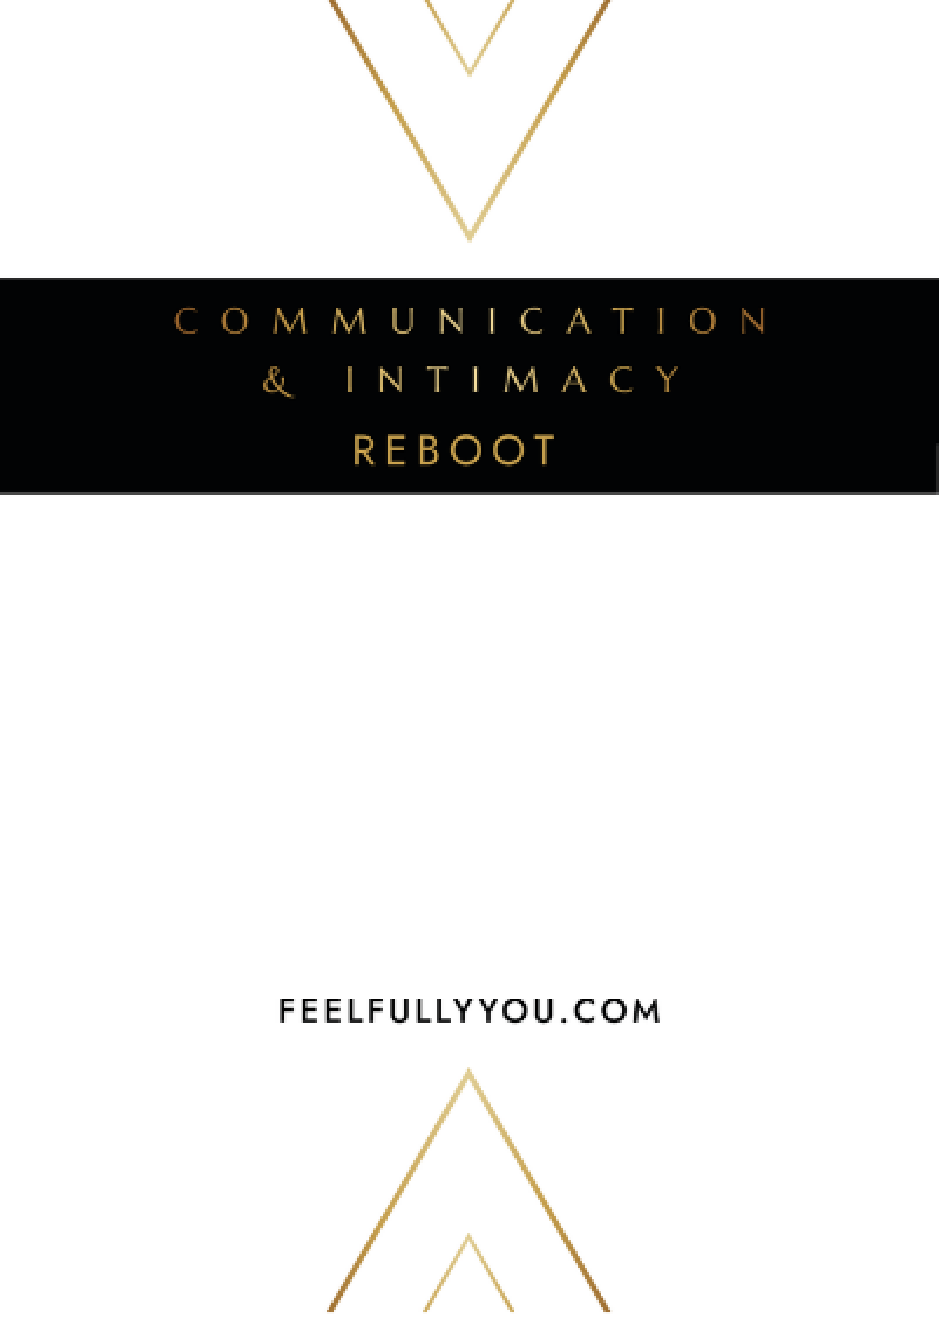
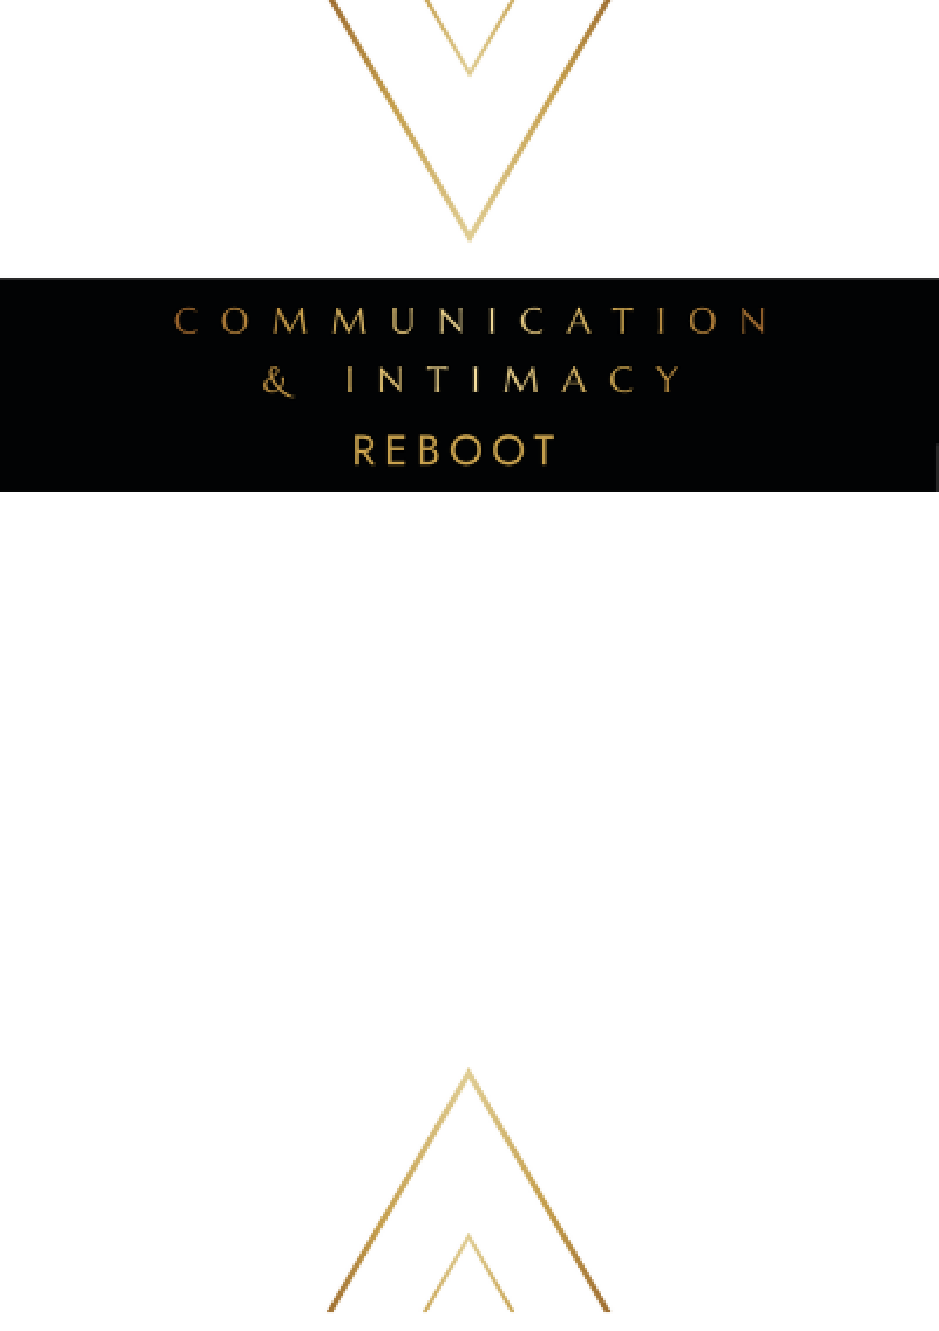
Split two-clause cards into bold statement + plain follow-up, fix overflow
Juliette went card by card: "so how I do it in the normal cards is the
first line here would be bold... then the next sentence (not bold &
under it)." Applied that pattern to every card with a genuine second
clause (a real follow-up question, or a comma-separated clarifying
phrase), corrected the "touch felt wrong" card's wording per her direct
edit. Single-clause cards are no longer bold by default, matching "ONLY
the cards that have 2 questions are in bold."

Also widened the template's blank text zone (card 19's long prompt was
overflowing into the band above and the site name below) and moved
feelfullyyou.com to live text so it always sits correctly regardless of
how long the prompt is, instead of being baked into the image at a fixed
spot.

Changed region(s): [[0.278, 0.7393, 0.7103, 0.7701]]

diff --git a/practice-app/lib/content/communication-reboot-kit.ts b/practice-app/lib/content/communication-reboot-kit.ts
@@ -38,15 +38,23 @@ const MINI_DYAD_VIDEO_URL =
 
 // Spec R11 Appendix, verbatim. Cards 16 and 46 are the couples/solo
 // phrasing of the same closing integration prompt, both included.
-export const REBOOT_KIT_CARDS: string[] = [
+// Some cards are a statement plus a separate follow-up question. Real
+// cards render that as two lines: the statement bold, the question plain
+// underneath, not run together as one sentence — Juliette, 12 Aug 2026:
+// "so how I do it in the normal cards is the first line here would be
+// bold... then the next sentence (not bold & under it)." A plain string
+// is a single-line card; {main, secondary} is the two-line kind.
+export type RebootCard = string | { main: string; secondary: string };
+
+export const REBOOT_KIT_CARDS: RebootCard[] = [
   "Tell me what intimacy feels like to you in your body.",
-  "Tell me about one moment with me that still has you smile. What do you feel in your body recalling this now?",
+  { main: "Tell me about one moment with me that still has you smile.", secondary: "What do you feel in your body recalling this now?" },
   "Tell me what I can do that helps you soften into feeling safe.",
-  "Tell me what scares you about touch, and what excites you.",
+  { main: "Tell me what scares you about touch.", secondary: "And what excites you?" },
   "Tell me the kind of touch that lingers long after it's over.",
-  "Tell me about a time that touch didn't feel right for you, and why.",
+  { main: "Tell me about a time that touch didn't feel right for you.", secondary: "And why?" },
   "Tell me what you secretly wish more of between us.",
-  "Tell me the part of your body that most wants to be celebrated and why.",
+  { main: "Tell me the part of your body that most wants to be celebrated.", secondary: "And why?" },
   "Tell me how your hands ache to explore me.",
   "Tell me something playful you've secretly wanted to try with me, but haven't said out loud yet.",
   "Tell me what you dream our intimacy could look like a year from now.",
@@ -57,7 +65,7 @@ export const REBOOT_KIT_CARDS: string[] = [
   "Tell me a win, insight or learning about doing this experience together.",
   "Tell me what intimacy with yourself looks and feels like.",
   "Tell me what touch means to you when no one else is involved.",
-  "Tell me a moment when someone's touch felt wrong, and how your body remembers it now. How can I best support you when this comes up?",
+  { main: "Tell me about a moment when someone's touch felt wrong.", secondary: "How can I best support you when this comes up?" },
   "Tell me what helps your body feel safe enough to open.",
   "Tell me how your body longs to be touched today.",
   "Tell me what you're hungry for having more of in your own life.",
@@ -67,23 +75,23 @@ export const REBOOT_KIT_CARDS: string[] = [
   "Tell me what a new self-care ritual could look like if it was all about pleasure and ease.",
   "Tell me where in your body or in your life you feel lightest right now.",
   "Tell me what you would say to your own body if you could write it a love letter today.",
-  "Tell me what you wish you could gift yourself, an experience, an insight, or simply a feeling.",
-  "Tell me how you most want to feel when you wake up tomorrow, and what might help.",
-  "Tell me something you've never said because you didn't want to change. How I, or your partner, sees you.",
+  { main: "Tell me what you wish you could gift yourself.", secondary: "An experience, an insight, or simply a feeling." },
+  { main: "Tell me how you most want to feel when you wake up tomorrow.", secondary: "What might help?" },
+  { main: "Tell me something you've never said because you didn't want to change.", secondary: "How I, or your partner, sees you." },
   "Tell me about a moment you wanted more closeness, but didn't know how to ask.",
   "Tell me what your family still doesn't quite \"get\" about who you are now.",
   "Tell me a part of you that feels most alive in this relationship, and one that feels a little forgotten.",
   "Tell me about a tradition you secretly loved, or secretly loathed, growing up.",
   "Tell me one story from your childhood that shaped how you see love.",
-  "Tell me one part of your body you're learning to love and what helps.",
-  "Tell me one part of your body you feel real pride in. How do you care for it?",
+  { main: "Tell me one part of your body you're learning to love.", secondary: "And what helps?" },
+  { main: "Tell me one part of your body you feel real pride in.", secondary: "How do you care for it?" },
   "Tell me something you used to chase that no longer feels important.",
   "Tell me what makes a day feel meaningful to you now.",
   "Tell me one way you protect your peace.",
   "Tell me how your body lets you know it feels safe with someone.",
   "Tell me something you used to hide because you thought it made you weak, but now see differently.",
   "Tell me what belief about yourself is starting to soften.",
-  "Tell me what emotion you find hardest to witness in others, and how it lands in you.",
+  { main: "Tell me what emotion you find hardest to witness in others.", secondary: "And how does it land in you?" },
   "Tell me what is a win, insight or learning you've had about this experience.",
 ];
 

diff --git a/practice-app/app/practice/communication-reboot-kit/cards/page.tsx b/practice-app/app/practice/communication-reboot-kit/cards/page.tsx
@@ -4,7 +4,7 @@ import { useState } from "react";
 import Image from "next/image";
 import Link from "next/link";
 import { CollectionGate } from "@/components/auth/CollectionGate";
-import { REBOOT_KIT_CARDS } from "@/lib/content/communication-reboot-kit";
+import { REBOOT_KIT_CARDS, RebootCard } from "@/lib/content/communication-reboot-kit";
 
 const DECK_TYPE = "communication-reboot-kit";
 
@@ -14,8 +14,11 @@ const DECK_TYPE = "communication-reboot-kit";
 // area painted blank) as the card face, with the live prompt text
 // absolutely positioned on top — not a from-scratch CSS/SVG recreation.
 // Juliette, 12 Aug 2026: "these are NOT like my cards!!! Use the same code
-// from the actual cards app and integrate them."
-function Card({ text, index, total }: { text: string; index: number; total: number }) {
+// from the actual cards app and integrate them." Font sized down and
+// bold restricted to two-line cards' first line only, per her direct
+// correction: "ONLY the cards that have 2 questions are in bold."
+function Card({ card, index, total }: { card: RebootCard; index: number; total: number }) {
+  const isSplit = typeof card !== "string";
   return (
     <>
       <div className="relative w-full max-w-xs overflow-hidden rounded-lg border border-[#a88538]/25 shadow-[0_30px_70px_-30px_rgba(0,0,0,0.35)]">
@@ -27,10 +30,24 @@ function Card({ text, index, total }: { text: string; index: number; total: numb
           priority
           className="h-auto w-full"
         />
-        <div className="absolute inset-0 flex flex-col items-center justify-center px-9" style={{ top: "40%", height: "35%" }}>
-          <p className="text-center font-display text-lg font-semibold uppercase leading-snug text-ffy-black sm:text-xl">
-            {text}
-          </p>
+        <div className="absolute inset-x-0 flex flex-col items-center gap-4 px-9" style={{ top: "38%", height: "40%" }}>
+          <div className="flex flex-1 flex-col items-center justify-center gap-2.5">
+            {isSplit ? (
+              <>
+                <p className="text-center font-display text-[0.95rem] font-semibold uppercase leading-snug text-ffy-black sm:text-base">
+                  {card.main}
+                </p>
+                <p className="text-center font-display text-[0.95rem] font-normal uppercase leading-snug text-ffy-black sm:text-base">
+                  {card.secondary}
+                </p>
+              </>
+            ) : (
+              <p className="text-center font-display text-[0.95rem] font-normal uppercase leading-snug text-ffy-black sm:text-base">
+                {card}
+              </p>
+            )}
+          </div>
+          <p className="text-[10px] uppercase tracking-[0.15em] text-ffy-black/45">feelfullyyou.com</p>
         </div>
       </div>
       {/* The real card has no counter printed on it — this is an app-only
@@ -78,7 +95,7 @@ function CardsPageContent() {
       </div>
 
       <div className="mt-8 flex w-full flex-1 flex-col items-center justify-center">
-        <Card text={REBOOT_KIT_CARDS[index]} index={index} total={total} />
+        <Card card={REBOOT_KIT_CARDS[index]} index={index} total={total} />
 
         <div className="mt-8 flex items-center gap-4">
           <button

diff --git a/practice-app/app/practice/communication-reboot-kit/zzqapreview/page.tsx b/practice-app/app/practice/communication-reboot-kit/zzqapreview/page.tsx
@@ -1,0 +1,39 @@
+// TEMPORARY, QA ONLY.
+import Image from "next/image";
+import { REBOOT_KIT_CARDS, RebootCard } from "@/lib/content/communication-reboot-kit";
+
+function Card({ card, index, total }: { card: RebootCard; index: number; total: number }) {
+  const isSplit = typeof card !== "string";
+  return (
+    <>
+      <div className="relative w-full max-w-xs overflow-hidden rounded-lg border border-[#a88538]/25 shadow-[0_30px_70px_-30px_rgba(0,0,0,0.35)]">
+        <Image src="/reboot-kit/card-template.png" alt="card" width={939} height={1331} priority className="h-auto w-full" />
+        <div className="absolute inset-x-0 flex flex-col items-center gap-4 px-9" style={{ top: "38%", height: "40%" }}>
+          <div className="flex flex-1 flex-col items-center justify-center gap-2.5">
+            {isSplit ? (
+              <>
+                <p className="text-center font-display text-[0.95rem] font-semibold uppercase leading-snug text-ffy-black sm:text-base">{card.main}</p>
+                <p className="text-center font-display text-[0.95rem] font-normal uppercase leading-snug text-ffy-black sm:text-base">{card.secondary}</p>
+              </>
+            ) : (
+              <p className="text-center font-display text-[0.95rem] font-normal uppercase leading-snug text-ffy-black sm:text-base">{card}</p>
+            )}
+          </div>
+          <p className="text-[10px] uppercase tracking-[0.15em] text-ffy-black/45">feelfullyyou.com</p>
+        </div>
+      </div>
+      <p className="mt-3 text-[11px] uppercase tracking-[0.2em] text-ffy-black/40">{index + 1} of {total}</p>
+    </>
+  );
+}
+
+export default function QaPreviewPage() {
+  const indices = [0, 1, 18, 28, 29, 30, 37];
+  return (
+    <main className="flex min-h-screen flex-wrap items-start justify-center gap-10 bg-ffy-cream px-6 py-10">
+      {indices.map((i) => (
+        <Card key={i} card={REBOOT_KIT_CARDS[i]} index={i} total={REBOOT_KIT_CARDS.length} />
+      ))}
+    </main>
+  );
+}
